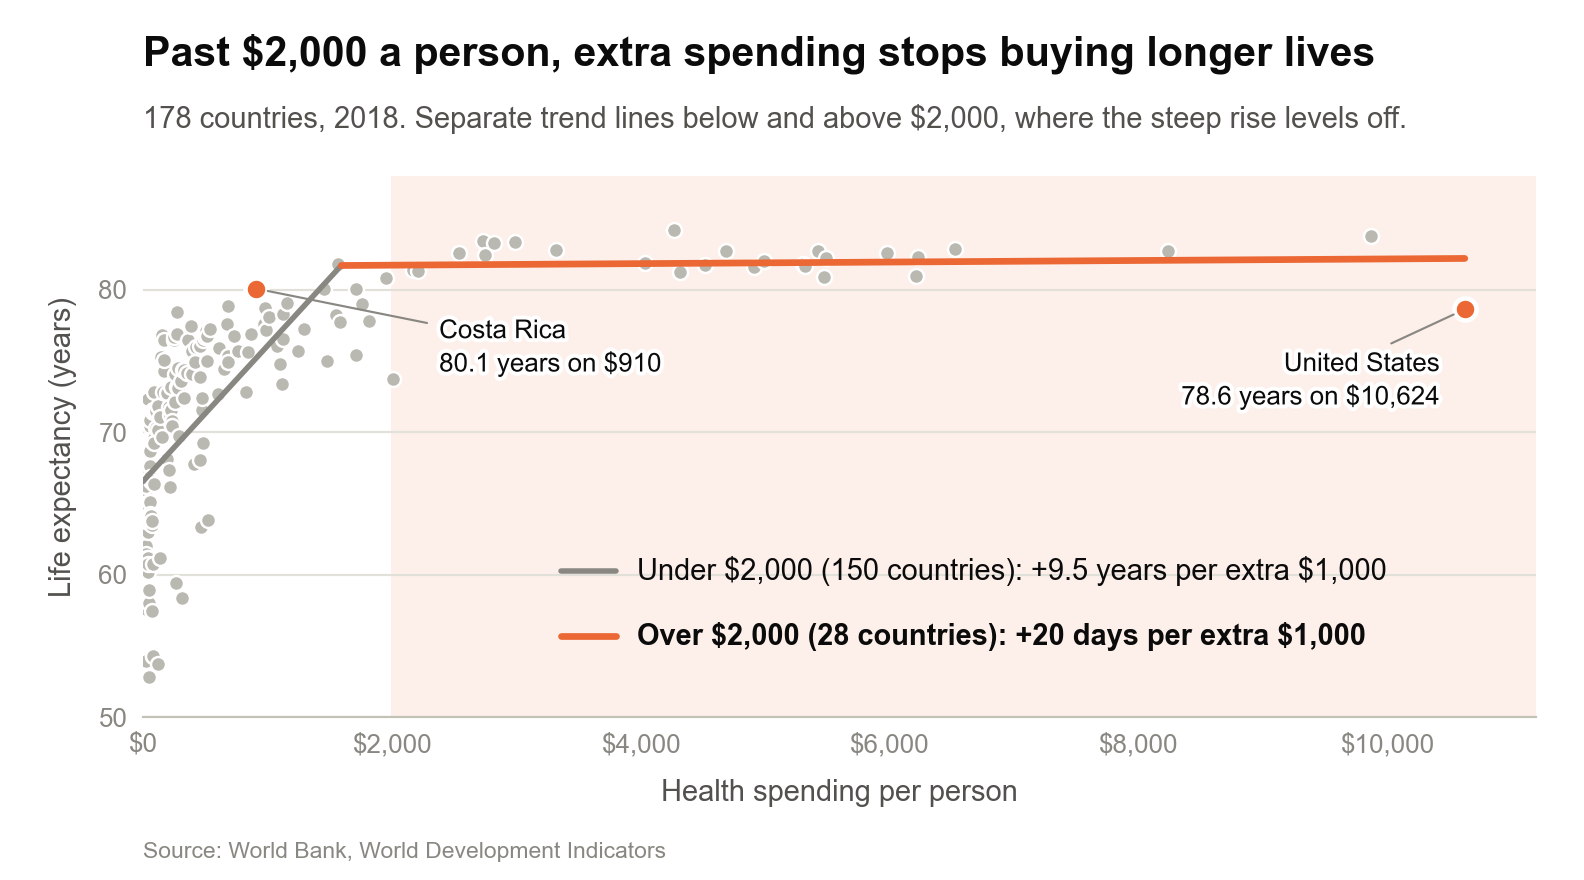
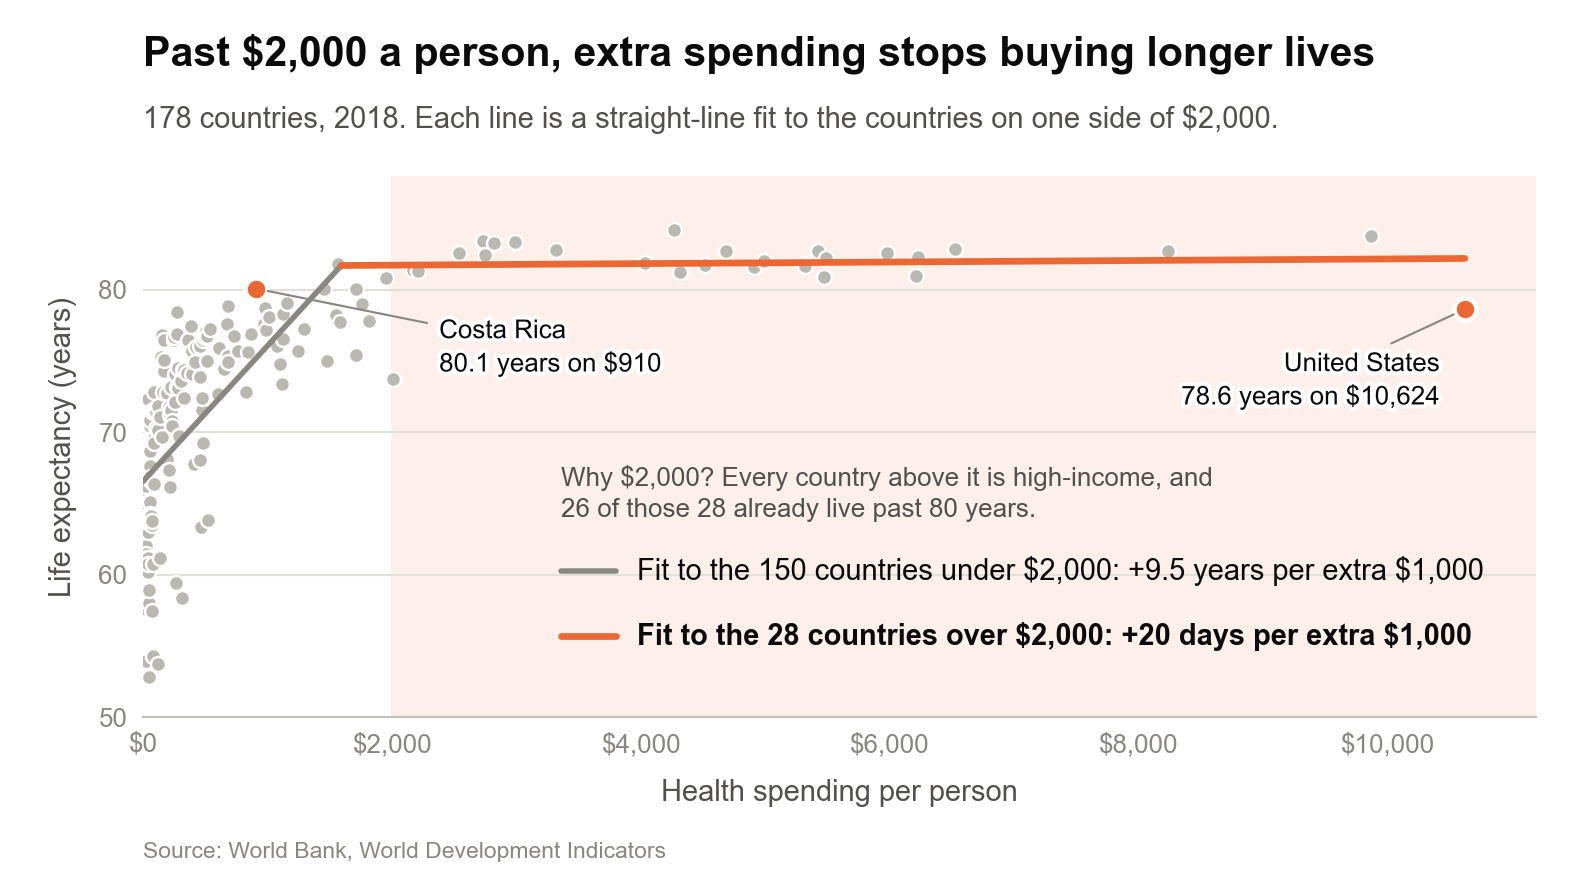
fix: explain the $2,000 breakpoint and both fitted lines inside Figure 2
Addresses checkpoint feedback: subtitle says what each line fits, an
in-chart note gives the reason for the cut, and the design decision
is rewritten to match.

diff --git a/projects/project2/index.html b/projects/project2/index.html
@@ -372,7 +372,7 @@
                 <figure>
                     <img
                         src="against_d_plateau.png"
-                        alt="Scatter plot of the same 178 countries on a linear spending axis from $0 to $11,000. Most dots are bunched at the left. A gray trend line rises steeply until about $1,600, then an orange line stays flat across a shaded region above $2,000. Costa Rica (80.1 years on $910) and the United States (78.6 years on $10,624) are highlighted."
+                        alt="Scatter plot of the same 178 countries on a linear spending axis from $0 to $11,000. Most dots are bunched at the left. A gray trend line rises steeply until about $1,600, then an orange line stays flat across a shaded region above $2,000. Costa Rica (80.1 years on $910) and the United States (78.6 years on $10,624) are highlighted. A note explains that every country above $2,000 is high-income and 26 of those 28 live past 80; the key gives +9.5 years per $1,000 for the 150 countries under $2,000 and +20 days per $1,000 for the 28 over it."
                         width="1584"
                         height="880"
                     />
@@ -400,15 +400,21 @@
                     </li>
                     <li>
                         <span class="score deceptive">−2</span>
-                        <strong>The $2,000 breakpoint was chosen after looking.</strong>
+                        <strong>The $2,000 breakpoint, and the in-chart reason we give for it.</strong>
                         Among countries above $1,000 the correlation is 0.55; above $1,500 it
                         is 0.35; above $2,000 it is 0.06; above $3,000 it turns negative
                         (−0.26, but only 20 countries). We picked $2,000 because it is the
-                        round number where the link disappears, and the subtitle presents it
-                        as the place "where the steep rise levels off," as if the data had
-                        chosen it. We did not test whether a break exists at all. The
-                        honest alternative is a smooth curve (e.g., LOESS), which bends
-                        gradually and shows no clean threshold.
+                        round number where the link disappears, and we did not test whether a
+                        break exists at all. Our checkpoint feedback asked us to explain the
+                        breakpoint and the two lines inside the chart, so the subtitle now says
+                        each line is a straight-line fit to one side, and a note says why
+                        $2,000: every country above it is high-income, and 26 of those 28
+                        already live past 80. Both facts are true, but the reason came after
+                        the choice. Twenty-three other high-income countries (Chile, Greece,
+                        the Czech Republic and more) spend under $2,000, so the cut does not
+                        actually mark "rich countries." The honest alternative is a smooth
+                        curve (e.g., LOESS), which bends gradually and shows no clean
+                        threshold.
                     </li>
                     <li>
                         <span class="score deceptive">−1</span>
